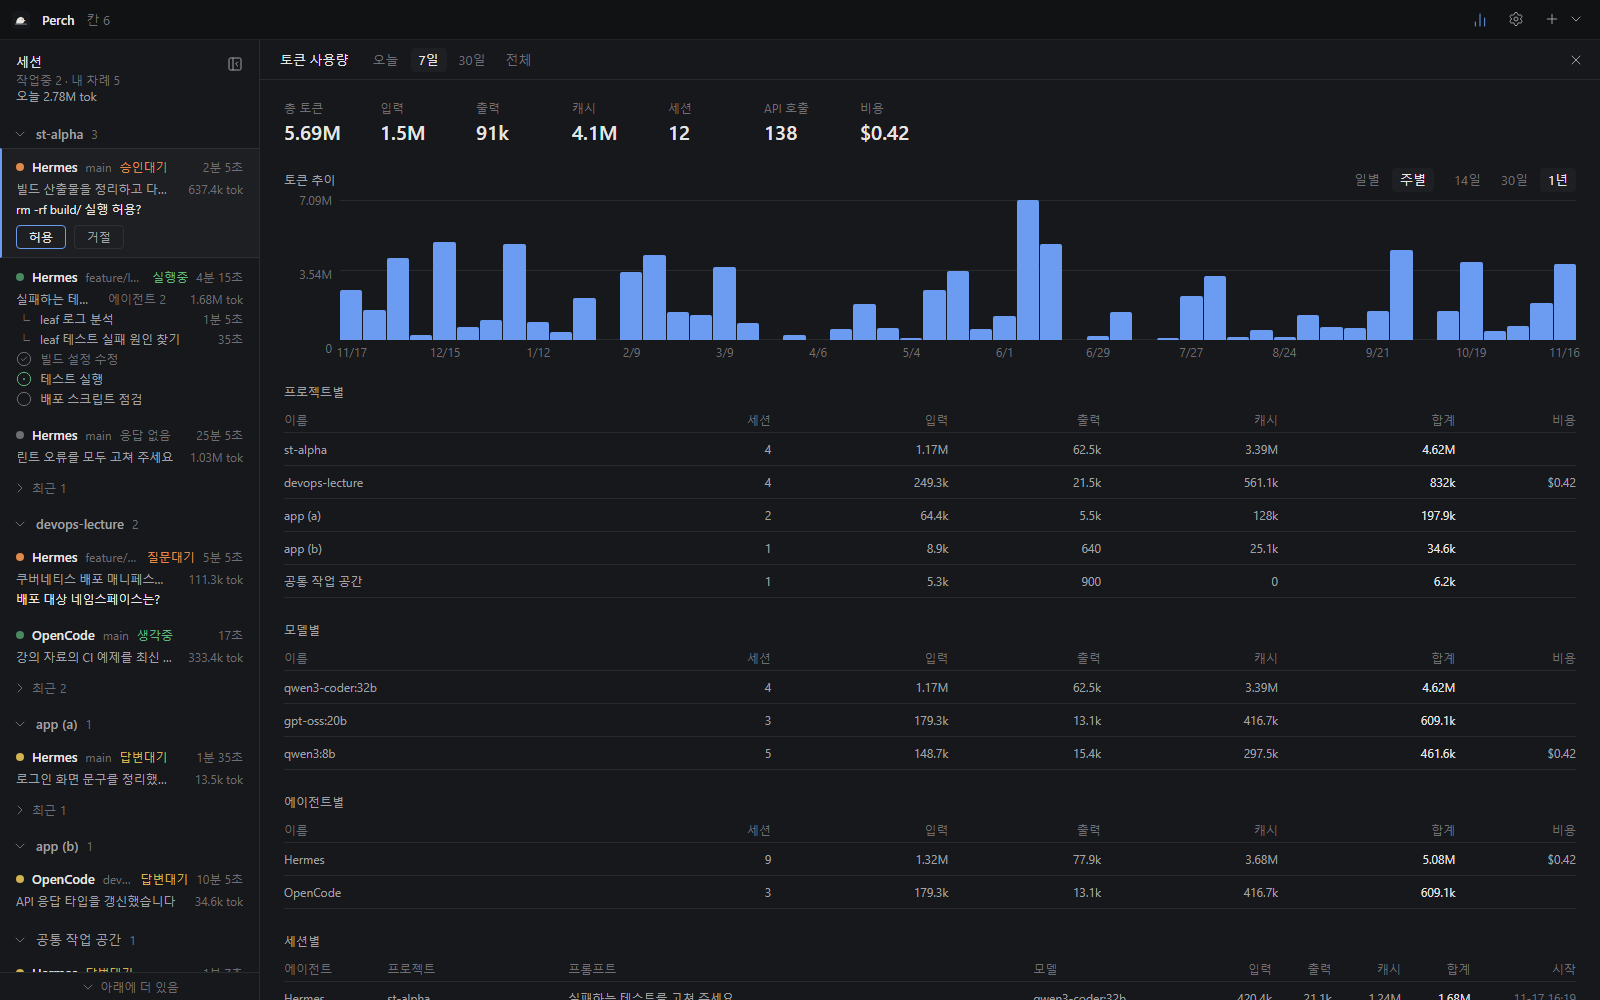
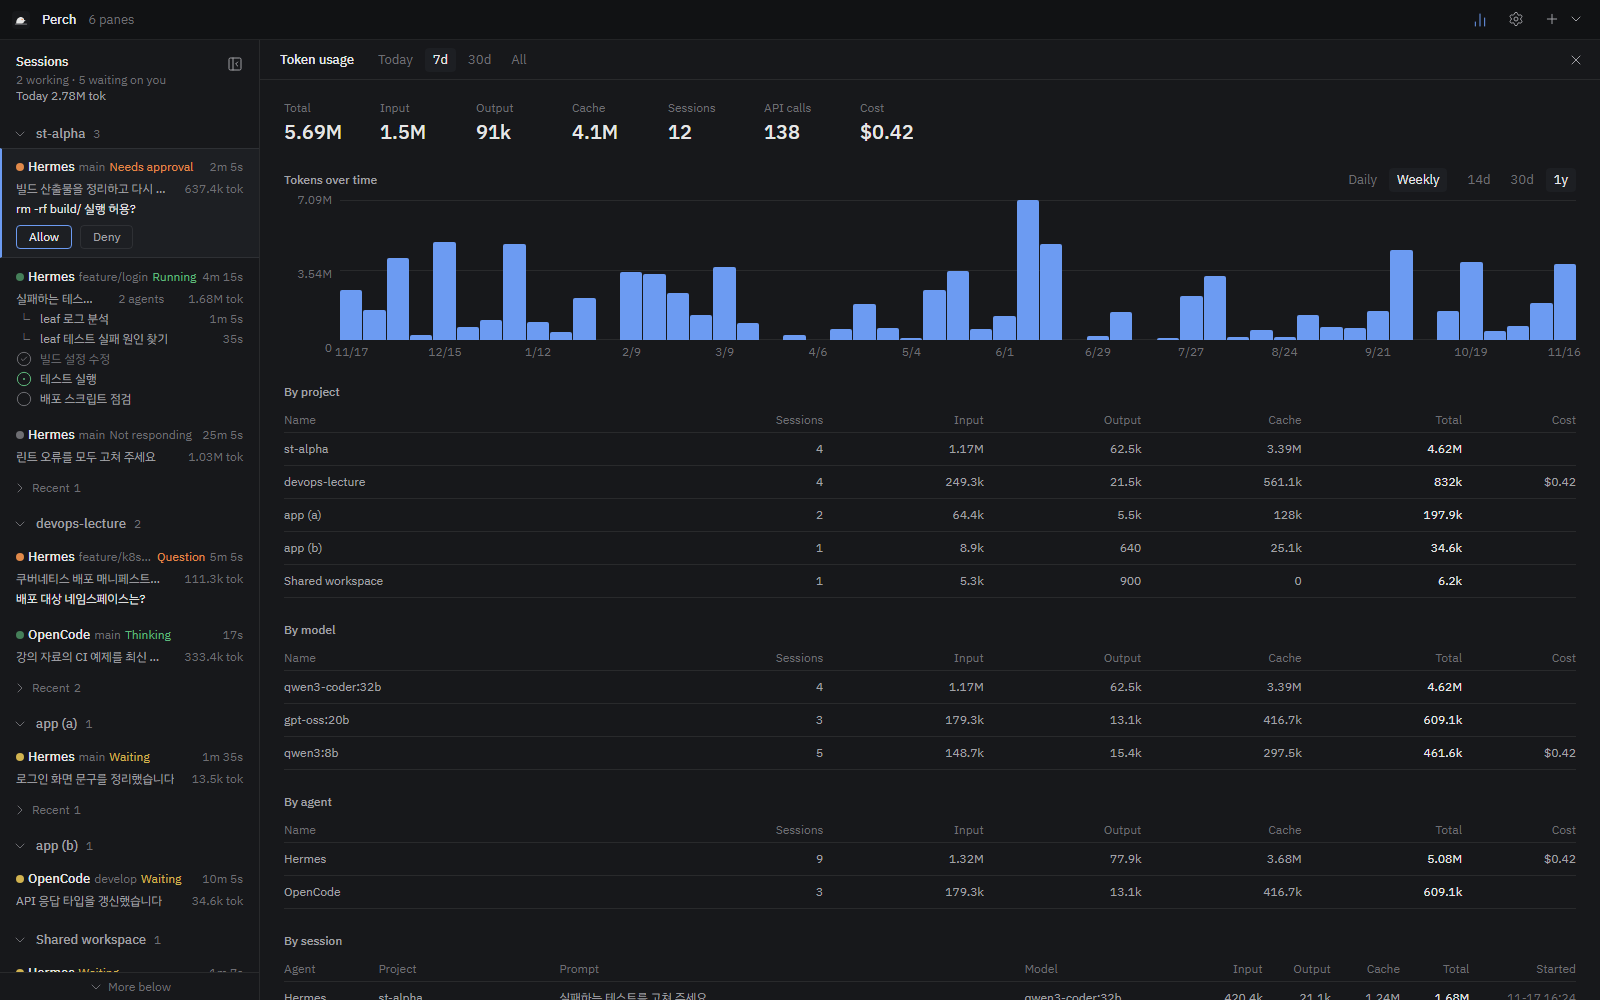
README: English UI and Plex fonts; screenshots

diff --git a/README.md b/README.md
@@ -53,6 +53,8 @@ npm test           # 격자, 묶음, 시간 표시 로직 테스트
   - 실제 데이터는 Hermes `state.db`의 세션 토큰 컬럼에서 읽을 예정이다. 방식은 [codeburn](https://github.com/getagentseal/codeburn)(MIT)을 참고했고, 코드는 새로 작성했다.
   - 가격표는 넣지 않았다. 비용은 에이전트가 기록한 값이 있을 때만 표시한다.
 - 사용 중인 모델은 Hermes CLI가 자체 상태줄에 표시하므로 앱에서 따로 표시하지 않는다.
+- 화면 언어: 짧은 라벨, 상태, 버튼은 영어로 쓰고, 설명 문장(안내, 툴팁)은 한글로 쓴다.
+- UI 글꼴: 영어는 IBM Plex Sans, 한글은 IBM Plex Sans KR이다 (둘 다 SIL OFL 1.1, 앱에 포함).
 - 터미널 기본 글꼴은 [D2Coding](https://github.com/naver/d2-coding-font)(SIL OFL 1.1, NAVER)이다. 앱에 포함되어 있어 오프라인에서도 한글이 고르게 표시된다.
 
 ### Perch 요약
